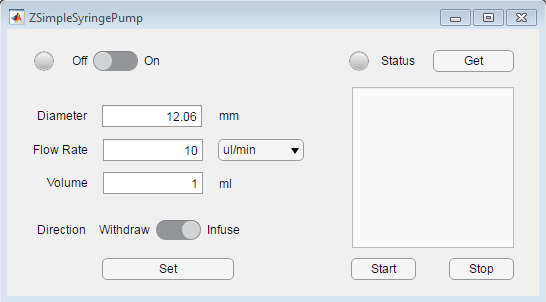
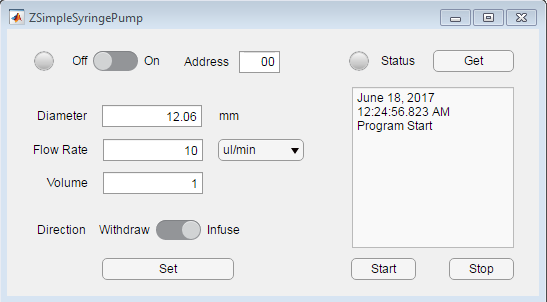
Add adress control and improve logging

diff --git a/README.md b/README.md
@@ -11,5 +11,4 @@ This program is based on MATLAB App Designer. MATLAB 2016a or later version is r
 ### Usage
 - Connect pump to computer with RS-232 (RS-232 to USB Converter might be preferable)
 - Set the BitRate to 19200 on the pump
-- Set the pump address to 0
 - Double click to start the program
